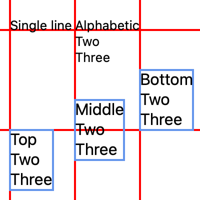
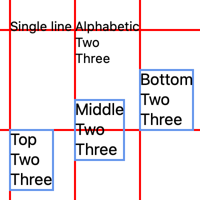
Cocoa: align ALPHABETIC baseline with a logical pixel

Changed region(s): [[0.03, 0.09, 0.72, 0.33], [0.27, 0.15, 0.3, 0.18]]

diff --git a/cocoa/src/toga_cocoa/widgets/canvas.py b/cocoa/src/toga_cocoa/widgets/canvas.py
@@ -291,10 +291,16 @@ class Canvas(Widget):
             # Default to Baseline.ALPHABETIC
             top = y - font.native.ascender
 
-        # Rounding gives more consistent results across different scale factors.
+        # Although drawAtPoint interprets its Y coordinate as TOP, from experimentation
+        # I think what it's doing internally is converting it to ALPHABETIC, rounding
+        # that to the nearest physical pixel, and continuing from there. So for
+        # consistent results across different scale factors, let's align the ALPHABETIC
+        # baseline with a *logical* pixel.
+        top += round(font.native.ascender) - font.native.ascender
+
         for line_num, line in enumerate(lines):
             self._render_string(line, font, **kwargs).drawAtPoint(
-                NSPoint(round(x), round(top + (line_height * line_num)))
+                NSPoint(round(x), top + (line_height * line_num))
             )
 
     def get_image_data(self):
